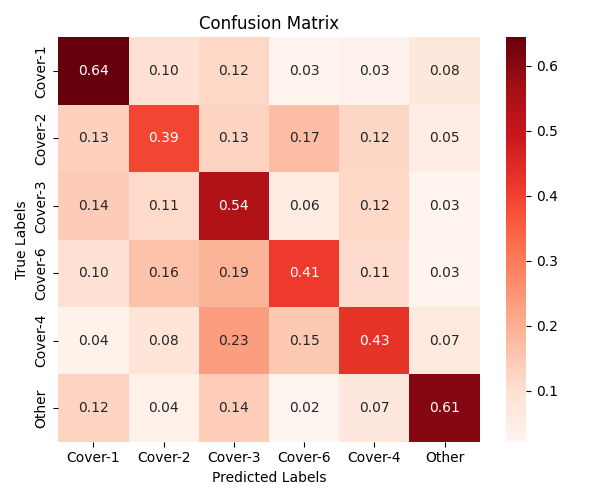
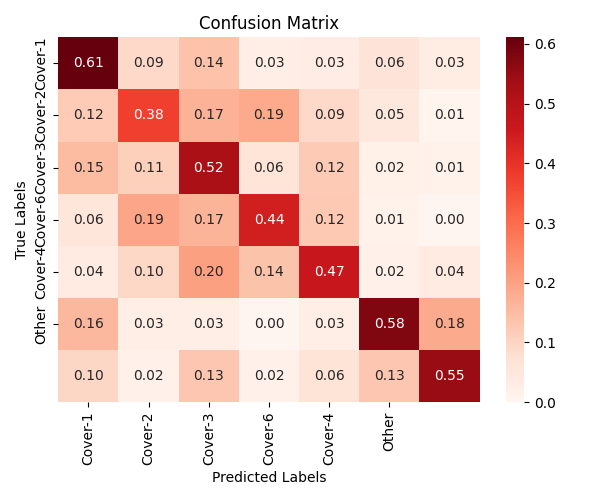
combined passCoverage and manZone into a single targey_y

diff --git a/main.py b/main.py
@@ -58,9 +58,11 @@ def main():
     # - The most important data is the depth data
     
     # BEST RESULT
-    data = data.drop(columns=(x_coord))
+    # data = data.drop(columns=(x_coord))
     # data = data.drop(columns=['next_deepest_safety_depth'])
 
+    # Add Man/Zone into Coverage (e.g. Cover-1 Man, Cover-1 Zone, etc.)
+    data['target_y'] = data['target_y'] * 2 + data['man_zone']
     data = data.drop(columns=['man_zone'])
 
     print('data:', data.shape, data.columns)
